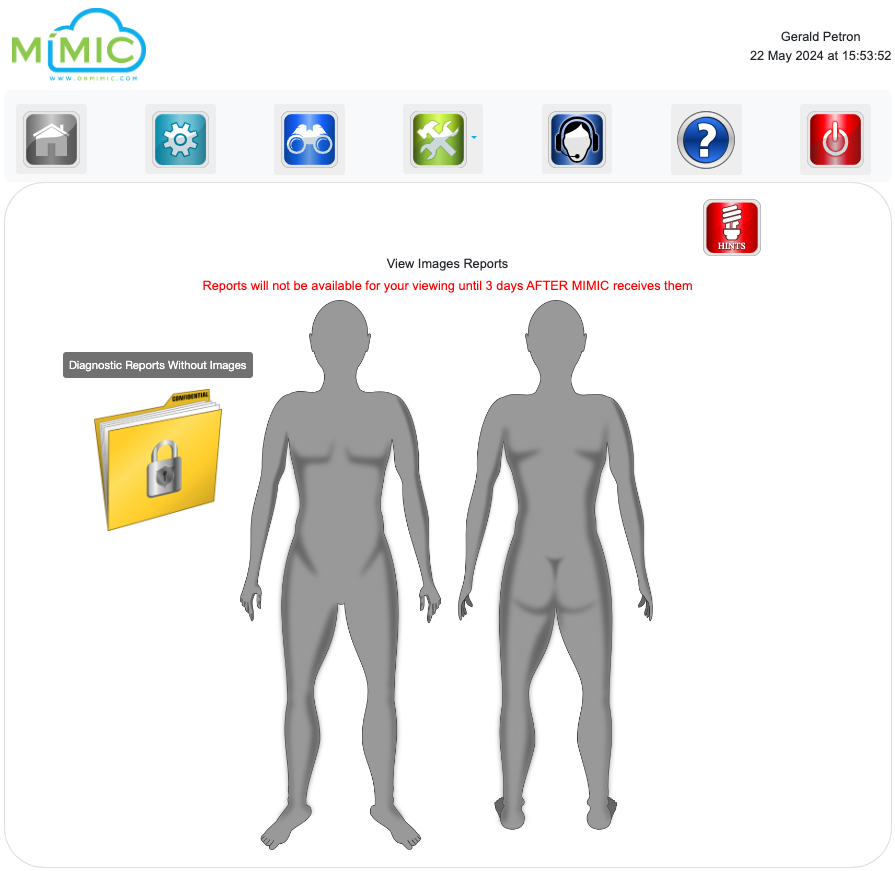
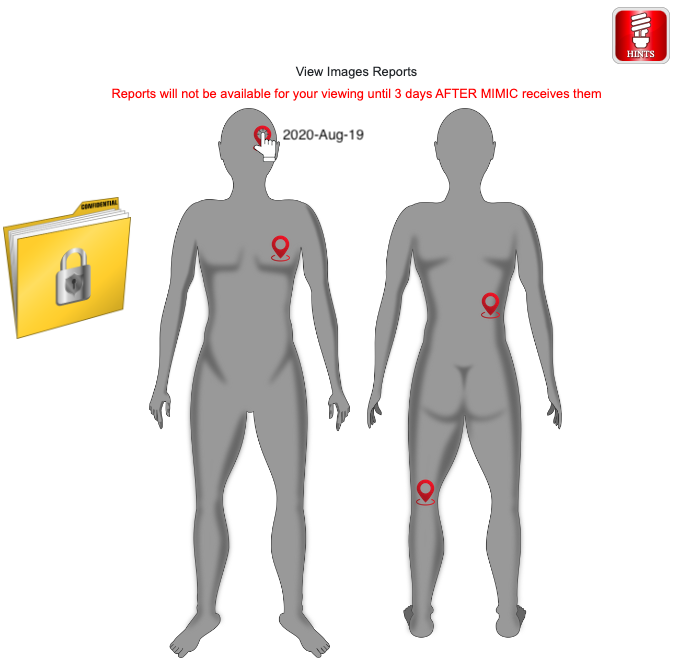
Another messy step toward completion

diff --git a/src/components/ProjectsSection.js b/src/components/ProjectsSection.js
@@ -1,29 +1,40 @@
 import { React, useState } from "react";
 import FullScreenSection from "./FullScreenSection";
-import { Box, Heading, HStack, VStack, Image } from "@chakra-ui/react";
+import { Heading, HStack, VStack, Divider, Image, Text, Link } from "@chakra-ui/react";
+import { ExternalLinkIcon } from '@chakra-ui/icons'
 import Card from "./Card";
 import clsx from 'clsx';
 
 const projects = [
   {
-    title: "React Space",
-    description: 0,
+    title: "Main Page depiction",
+    description: "Web-site description and Doctor/Patient Portal Entry page",
     getImageSrc: () => require("../images/onMimicSplash.png"),
   },
   {
-    title: "React Infinite Scroll",
-    description: 1,
+    title: "Surgery location UI depiction",
+    description: "Graphic UI depicting patient surgery sites, linking to report details",
     getImageSrc: () => require("../images/avatar.png"),
   },
   {
-    title: "Photo Gallery",
-    description: 2,
+    title: "File mgmnt depiction",
+    description: "File management UI",
+    getImageSrc: () => require("../images/fileManagement.png"),
+  },
+  {
+    title: "Registration depiction",
+    description: "Registration validation, step-by-step",
     getImageSrc: () => require("../images/registration.png"),
   },
   {
-    title: "Event planner",
-    description: 3,
+    title: "User profile mgmnt depiction",
+    description: "User profile management",
     getImageSrc: () => require("../images/profileManagement.png"),
+  },
+  {
+    title: "Responsive UI depiction",
+    description: "Responsive User Interface",
+    getImageSrc: () => require("../images/responsiveUi.png"),
   },
 ];
 
@@ -35,9 +46,7 @@ const ProjectsSection = () => {
       isDarkBackground
       width="100%"
     >
-      <Heading pt="50px" as="h1" id="projects-section">
-        Featured Projects
-      </Heading>
+      <Heading pt="50px" as="h1" id="projects-section">My work at M2 Systems, Corp</Heading>
 
       <HStack>
         {projects.map((project) => (
@@ -51,16 +60,21 @@ const ProjectsSection = () => {
           />
         ))}
       </HStack>
-      <VStack>
-
-        {projects.map((project) => (
-          <div key={project.title} className={clsx({'hidden' : !(isLarge === project.description), 'block' : (isLarge === project.description) })}>
-
-              <Image boxSize="calc(70vh)" id={project.description} src={project.getImageSrc()} alt='Dan Abramov' />
-
-          </div>
-        ))}
-      </VStack>
+      
+      {projects.map((project) => (
+        <div key={project.title} className={clsx({'hidden' : !(isLarge === project.description), 'block' : (isLarge === project.description) })}>
+          <VStack>
+            <Image h="calc(60vh)" id={project.description} src={project.getImageSrc()} alt={project.title} />
+            <Text fontSize={['xs', 'md']}>{project.description}</Text>
+          </VStack>
+        </div>
+      ))}
+      <Divider orientation='horizontal' />
+      <footer>
+      <Link href='https://gp-web-dev.com' isExternal>
+        For another sample of my work (my own personal React project), go to<ExternalLinkIcon mx='2px' />
+      </Link>
+      </footer>
       
     </FullScreenSection>
   );

diff --git a/src/components/LandingSection.js b/src/components/LandingSection.js
@@ -39,6 +39,7 @@ const LandingSection = () => (
         of this century, extensively upgrading it, troubleshooting it, and making it compliant with government accessibility requirements.</Text>
         <Text fontSize={['xs', 'md']}>Prior to the above experience, I had been using basic web-site technology since the late 1990's to modernize factory configuration
         management systems, mainly using basic HTML, CSS, and Javascript, even before there was such a thing as a front-end Javascrip framework.</Text>
+        <a href="https://www.vecteezy.com/free-png/hand-icon">Hand Icon PNGs by Vecteezy</a>
     </Stack>
     <nav>
       <HStack spacing={8}> 

diff --git a/src/components/Card.js b/src/components/Card.js
@@ -8,7 +8,7 @@ const Card = ({ isEnlarged, onEnlarge, title, description, imageSrc }) => {
 
   return (
       <div className={clsx({'opacity-100' : !isEnlarged, 'opacity-50' : isEnlarged })}>
-        <Image boxSize="50px" id={description} src={imageSrc} alt='Dan Abramov' borderTopRadius="10px" onClick={onEnlarge} />
+        <Image boxSize="50px" id={description} src={imageSrc} alt='Dan Abramov' borderRadius="5px" onClick={onEnlarge} />
       </div>
   );
 };

diff --git a/src/App.js b/src/App.js
@@ -22,7 +22,7 @@ function App() {
         </Box>
 
         <Box id="contactme-section" h={['calc(120vh)', 'calc(100vh)']} bg={{ base: 'red.600', sm: 'gray.600', md: 'blue.600', lg: 'green.600' }} >
-          <LandingSection />
+          <ContactMeSection />
         </Box>
         {/*
           <Header />
